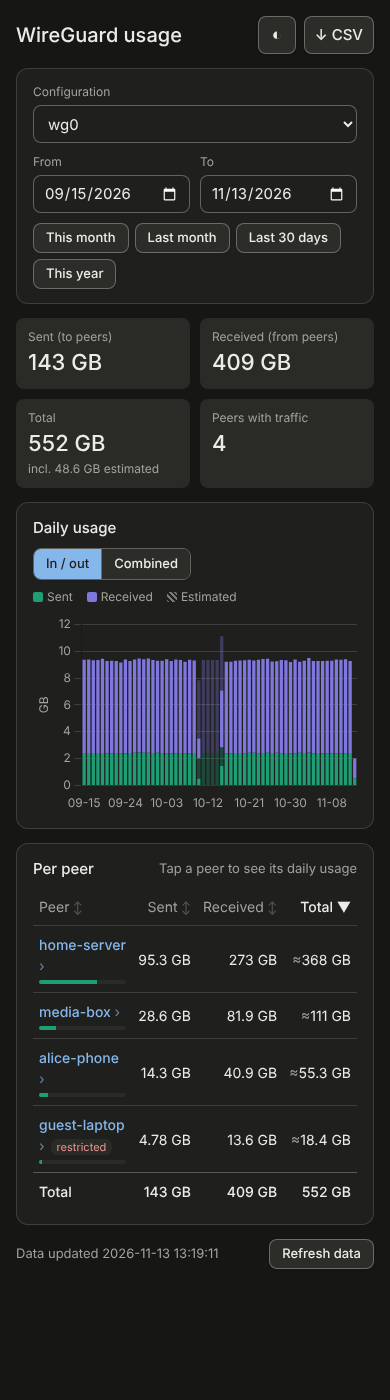
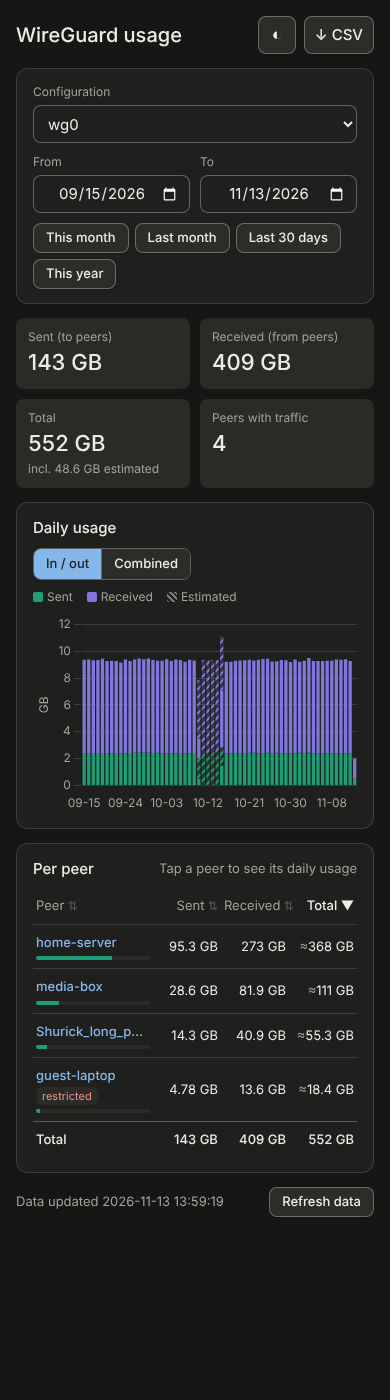
Single main branch; centered dates; hatched estimated bars; v1.1.0 notes
- Drop the dev branch from CI: pushes to main publish :latest, releases
  add X.Y.Z / X.Y; GHCR cleanup no longer keeps :dev.
- Center the date text in the From/To fields (iOS left it top-left).
- Draw estimated usage with diagonal stripes instead of a faint colour.
- Release notes for v1.1.0.

Claude-Session: https://claude.ai/code/session_01Jf7VQPKcCADD2hmauksGBQ

diff --git a/app/static/index.html b/app/static/index.html
@@ -26,8 +26,8 @@ h1 { font-size: 20px; font-weight: 500; margin: 0; }
 .card { background: var(--card); border: .5px solid var(--border); border-radius: 12px; padding: 14px 16px; margin-bottom: 14px; }
 .controls { display: grid; grid-template-columns: repeat(3, minmax(0, 1fr)); gap: 10px; }
 .controls > div { min-width: 0; }
-input[type=date] { -webkit-appearance: none; appearance: none; display: block; min-width: 0; max-width: 100%; text-align: left; }
-input[type=date]::-webkit-date-and-time-value { text-align: left; }
+input[type=date] { -webkit-appearance: none; appearance: none; display: block; min-width: 0; max-width: 100%; text-align: center; line-height: 36px; padding-top: 0; padding-bottom: 0; }
+input[type=date]::-webkit-date-and-time-value { text-align: center; margin: 0; line-height: 36px; }
 label { display: block; font-size: 12px; color: var(--muted); margin-bottom: 4px; }
 select, input[type=date], button, .btn {
   width: 100%; height: 38px; padding: 0 10px; font: inherit; color: var(--text); background: var(--card);
@@ -258,6 +258,15 @@ function render() {
   drawChart(d.daily);
 }
 
+function hatch(color) {
+  const c = document.createElement("canvas"); c.width = c.height = 8;
+  const g = c.getContext("2d");
+  g.fillStyle = color + "40"; g.fillRect(0, 0, 8, 8);
+  g.strokeStyle = color; g.lineWidth = 2;
+  g.beginPath(); g.moveTo(-2, 10); g.lineTo(10, -2); g.moveTo(-2, 2); g.lineTo(2, -2); g.moveTo(6, 10); g.lineTo(10, 6); g.stroke();
+  return g.createPattern(c, "repeat");
+}
+
 function drawChart(daily) {
   const css = getComputedStyle(document.documentElement);
   const max = Math.max(1, ...daily.map(x => x.rx + x.tx));
@@ -269,12 +278,12 @@ function drawChart(daily) {
   const allc = css.getPropertyValue("--all").trim();
   const ds = state.view === "total" ? [
     { label: "In + out", data: daily.map(x => (x.rx + x.tx - x.est_rx - x.est_tx) / div), backgroundColor: allc, stack: "s" },
-    { label: "In + out (estimated)", data: daily.map(x => (x.est_rx + x.est_tx) / div), backgroundColor: allc + "55", stack: "s" },
+    { label: "In + out (estimated)", data: daily.map(x => (x.est_rx + x.est_tx) / div), backgroundColor: hatch(allc), stack: "s" },
   ] : [
     { label: "Sent", data: daily.map(x => (x.tx - x.est_tx) / div), backgroundColor: txc, stack: "s" },
-    { label: "Sent (estimated)", data: daily.map(x => x.est_tx / div), backgroundColor: txc + "55", stack: "s" },
+    { label: "Sent (estimated)", data: daily.map(x => x.est_tx / div), backgroundColor: hatch(txc), stack: "s" },
     { label: "Received", data: daily.map(x => (x.rx - x.est_rx) / div), backgroundColor: rxc, stack: "s" },
-    { label: "Received (estimated)", data: daily.map(x => x.est_rx / div), backgroundColor: rxc + "55", stack: "s" },
+    { label: "Received (estimated)", data: daily.map(x => x.est_rx / div), backgroundColor: hatch(rxc), stack: "s" },
   ];
   $("lg-est").hidden = !daily.some(x => x.est_rx + x.est_tx > 0);
   document.querySelectorAll(".v-split").forEach(e => e.hidden = state.view === "total");

diff --git a/README.md b/README.md
@@ -53,7 +53,6 @@ Published to GitHub Container Registry as `ghcr.io/shuricksumy/wgdashboard-stats
 | --- | --- |
 | `latest` | the `main` branch |
 | `1.0.0`, `1.0` | release tags `v1.0.0`, … (pin one of these for a stable setup) |
-| `dev` | the `dev` branch, for testing changes before they reach `main` |
 
 ### Reverse proxy
 
@@ -113,7 +112,7 @@ python tools/make_demo_db.py demo/wgdashboard.db
 WGD_DB=demo/wgdashboard.db STATS_DB=demo/stats.db uvicorn app.main:app --reload
 ```
 
-Work happens on `dev` (publishes the `:dev` image) and reaches `main` through a pull request. GitHub Actions run the tests and build the image on every push and pull request, CodeQL scans the code weekly, Dependabot and Renovate keep dependencies and pinned actions up to date (patch updates merge themselves once checks pass), and old image tags are cleaned up weekly. Releases are made with the **Release** workflow (Actions → Release → Run workflow on `main`, enter e.g. `1.1.0`): it runs the tests, creates the tag and GitHub release (notes from `docs/releases/vX.Y.Z.md` if present) and publishes the `X.Y.Z`, `X.Y` and `latest` images. Pushing a `vX.Y.Z` tag yourself also publishes the images.
+There is a single branch, `main`: every push to it runs the tests and publishes `:latest`. Pull requests (Dependabot, Renovate, or short-lived feature branches, deleted after merging) are tested and built but not published. GitHub Actions also scan the code with CodeQL weekly, Dependabot and Renovate keep dependencies and pinned actions up to date (patch updates merge themselves once checks pass), and old image tags are cleaned up weekly. Releases are made with the **Release** workflow (Actions → Release → Run workflow on `main`, enter e.g. `1.1.0`): it runs the tests, creates the tag and GitHub release (notes from `docs/releases/vX.Y.Z.md` if present) and publishes the `X.Y.Z`, `X.Y` and `latest` images. Pushing a `vX.Y.Z` tag yourself also publishes the images.
 
 ## Roadmap
 

diff --git a/CLAUDE.md b/CLAUDE.md
@@ -29,5 +29,5 @@ docker compose up -d --build
 
 - Never write to WGDashboard's database; it is opened with `mode=ro`.
 - WGDashboard values are GB floats (`bytes / 1024**3`); convert to integer bytes at ingest.
-- Docker image is published to GHCR by `.github/workflows/docker-publish.yml`: `:dev` from the `dev` branch, `:latest` from `main`, semver from `v*.*.*` tags.
-- Releases: `.github/workflows/release.yml` (manual, on `main`, input `X.Y.Z`) creates the tag + GitHub release and publishes `X.Y.Z`/`X.Y`/`latest`. Put release notes in `docs/releases/vX.Y.Z.md` before running it. Work on `dev`, merge to `main` via PR.
+- Docker image is published to GHCR by `.github/workflows/docker-publish.yml`: `:latest` (+ short sha) from every push to `main`, semver from `v*.*.*` tags.
+- Releases: `.github/workflows/release.yml` (manual, on `main`, input `X.Y.Z`) creates the tag + GitHub release and publishes `X.Y.Z`/`X.Y`/`latest`. Put release notes in `docs/releases/vX.Y.Z.md` before running it. Only `main` is long-lived; changes go to `main` directly or through a short-lived branch + PR that is deleted after merging.

diff --git a/docs/releases/v1.1.0.md b/docs/releases/v1.1.0.md
@@ -1,0 +1,17 @@
+### New
+- **In / out vs Combined** switch on the daily chart: combined shows sent + received as one bar per day. The choice is remembered and kept in the URL (`view=total`).
+- Estimated usage (periods when WGDashboard wasn't recording) is drawn with diagonal stripes, so it can't be mistaken for measured traffic.
+
+### Improved
+- Buttons, tabs, date presets and the theme switch look clearly tappable; sortable table headers show arrows; peer names are styled as links.
+- Phone layout: date fields no longer overflow on iPhone and their dates are centered; the peer table gives names more room and shortens very long names with "…".
+- Dependencies updated (FastAPI 0.162, Uvicorn 0.54, httpx 0.28, pytest 9.2).
+
+### Project
+- Single `main` branch: every push publishes `:latest`; releases add `X.Y.Z` and `X.Y` tags. The `:dev` image is no longer published.
+
+```
+ghcr.io/shuricksumy/wgdashboard-stats:1.1.0
+ghcr.io/shuricksumy/wgdashboard-stats:1.1
+ghcr.io/shuricksumy/wgdashboard-stats:latest
+```
